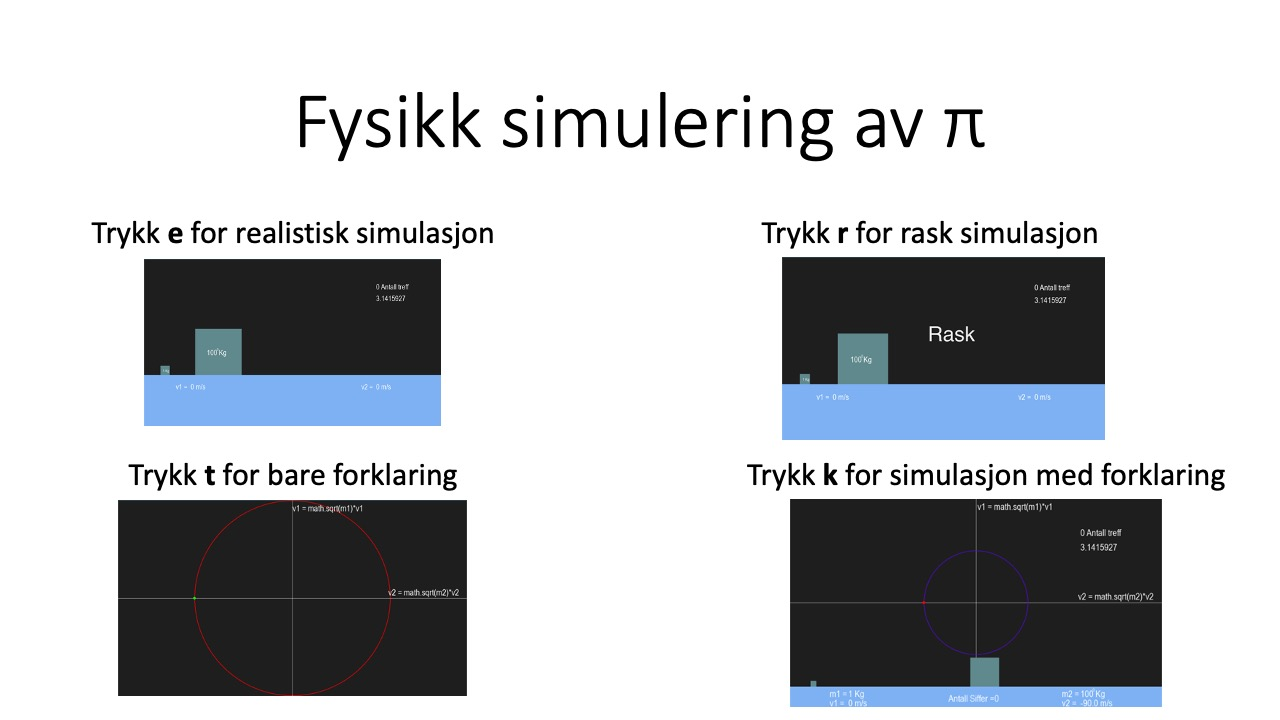
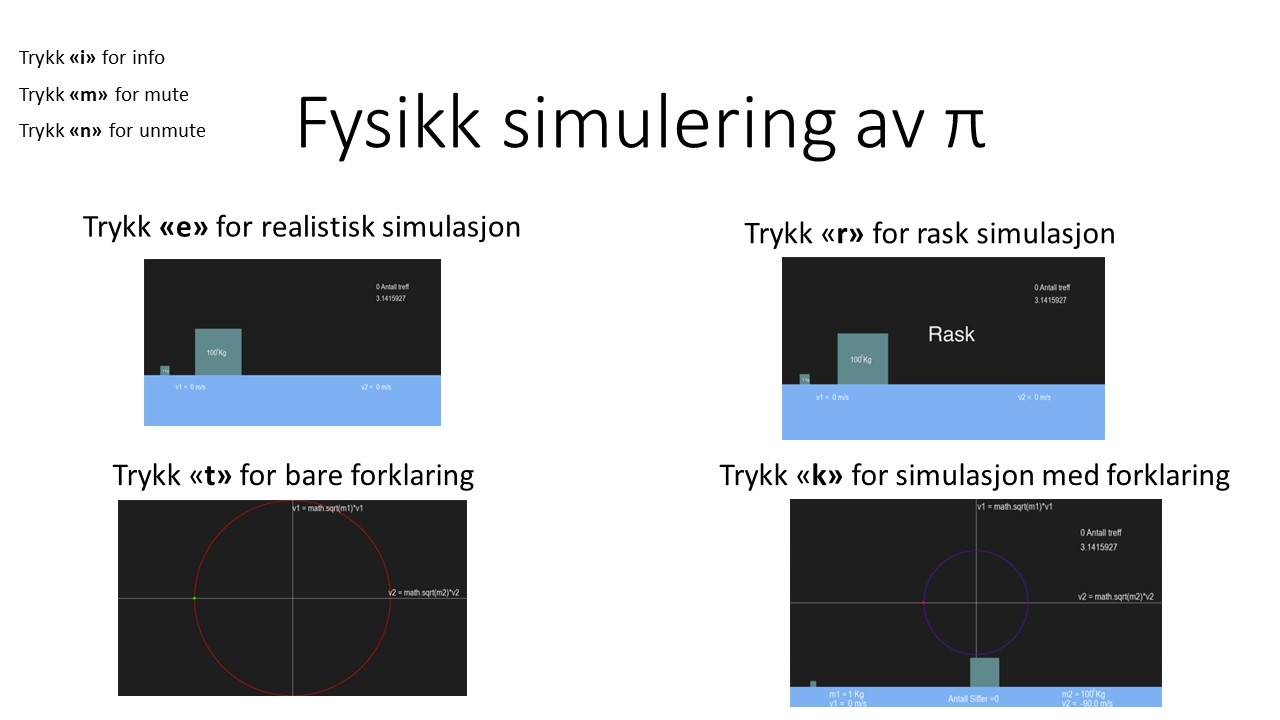
main

diff --git a/kode/Hovedprogram/Program_med_gui.py b/kode/Hovedprogram/Program_med_gui.py
@@ -17,13 +17,16 @@ def lyd(lyd_fil):
     pygame.mixer.music.load(lyd_fil)
     pygame.mixer.music.play()
 
+musikk_spiller = True
 lyd("wii.wav")
 
 # starter programm og stopper musikk
 def start_program_og_musikk_stopp(bane):
     pygame.mixer.music.pause()
     os.system(f"python3 {bane}")
-    pygame.mixer.music.play()
+    if musikk_spiller == True:
+        pygame.mixer.music.unpause()
+    
 
 
 # gjør det mulig å avslutte program
@@ -53,6 +56,9 @@ while True:
     elif keys[pygame.K_i]:
         start_program_og_musikk_stopp("kode/Underprogram/info_program.py")
     elif keys[pygame.K_m]:
-        pygame.mixer.music.stop()
-
+        musikk_spiller = False
+        pygame.mixer.music.pause()
+    elif keys[pygame.K_n]:
+        musikk_spiller = True
+        pygame.mixer.music.unpause()
     pygame.display.update()

diff --git a/kode/Underprogram/info_program.py b/kode/Underprogram/info_program.py
@@ -15,6 +15,8 @@ while True:
         if event.type == pygame.QUIT:
             pygame.quit()
             quit()
-    
+    keys = pygame.key.get_pressed()
+    if keys[pygame.K_ESCAPE]:
+        break
     vindu.blit(info_bilde, (0,0))
     pygame.display.update()
